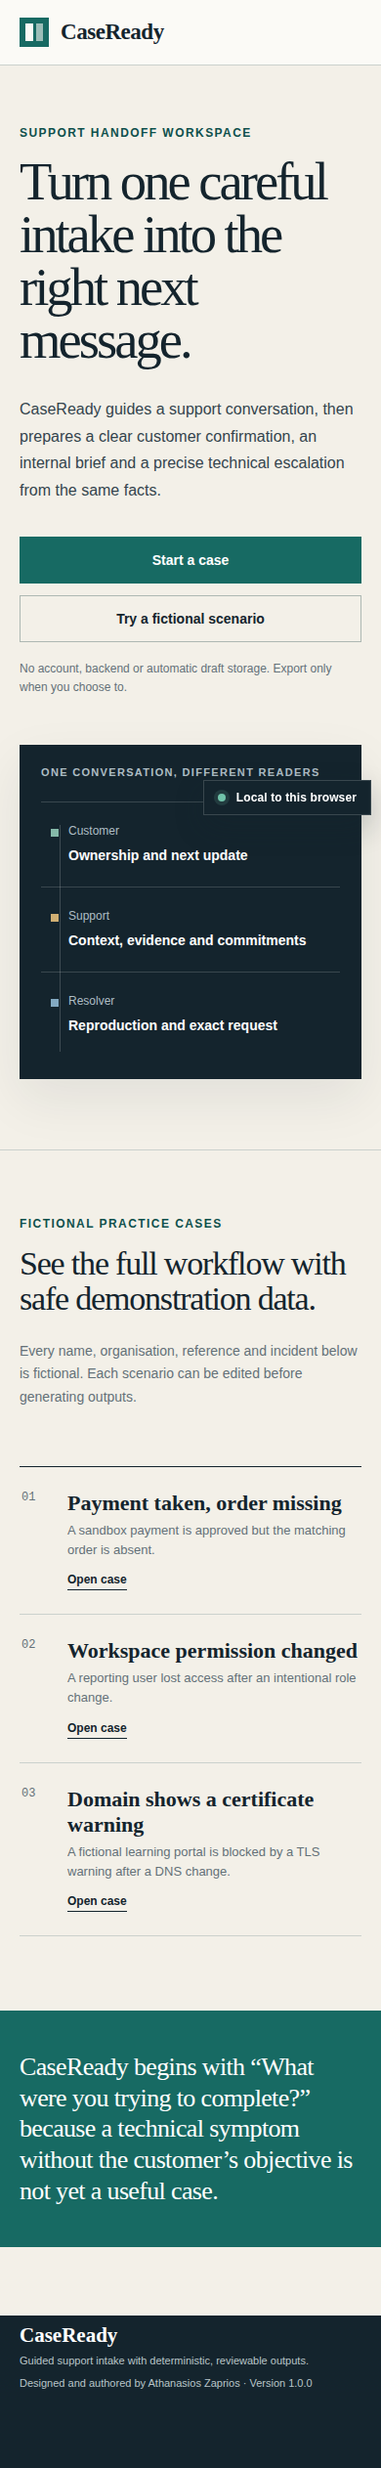
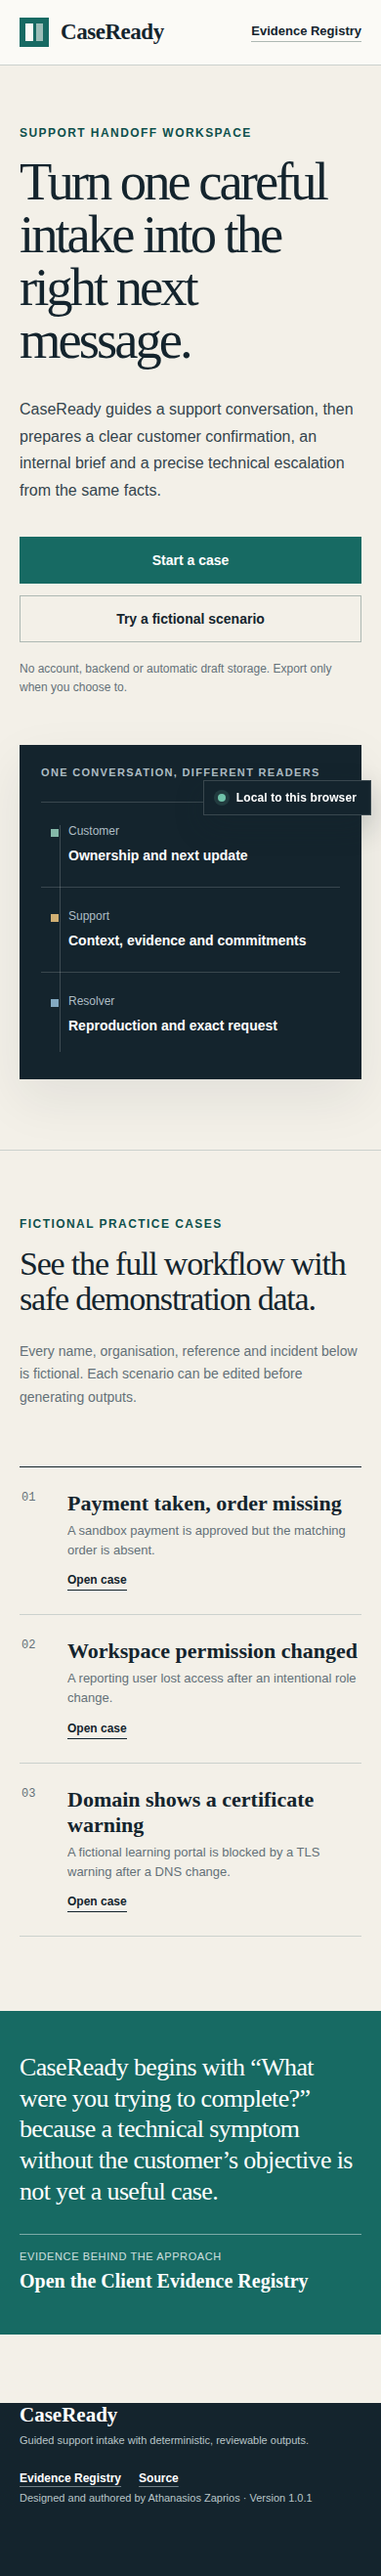
Document the verified GitHub Pages release

Changed region(s): [[0.0, 0.0, 1.0, 0.9885], [0.6462, 0.0, 0.9538, 0.0309], [0.0615, 0.6796, 0.0923, 0.7105]]

diff --git a/release-notes/v1.0.1.md b/release-notes/v1.0.1.md
@@ -1,0 +1,14 @@
+CaseReady 1.0.1 moves the public application to GitHub Pages and connects it directly with the Client Evidence Registry.
+
+## Changed
+
+- The live application now uses `https://zpthanos.github.io/CaseReady/`.
+- CaseReady links to the Client Evidence Registry from the header, product rationale and footer.
+- The repository screenshots were recaptured from the final GitHub Pages deployment.
+- The static deployment is built from the same tested source and committed as a verified Pages artifact.
+
+## Verification
+
+The deployed application was exercised through the fictional payment-and-order scenario. The live capture covered the home page, blank validation, sensitive-data warning, completed intake, customer confirmation, support brief, engineering escalation and mobile layout. It reported no browser errors and no horizontal overflow at the mobile viewport.
+
+The support workflow, deterministic output rules and privacy model are unchanged from version 1.0.0.

diff --git a/README.md b/README.md
@@ -4,6 +4,9 @@
 
 CaseReady guides a support conversation and turns the verified facts into a customer confirmation, an internal brief and a precise engineering escalation.
 
+[**Live application: zpthanos.github.io/CaseReady/**](https://zpthanos.github.io/CaseReady/)
+
+[![Live deployment](https://img.shields.io/badge/live-GitHub%20Pages-1f766e?style=flat-square)](https://zpthanos.github.io/CaseReady/)
 [![CI status](https://github.com/zpthanos/CaseReady/actions/workflows/ci.yml/badge.svg)](https://github.com/zpthanos/CaseReady/actions/workflows/ci.yml)
 [![MIT license](https://img.shields.io/github/license/zpthanos/CaseReady?style=flat-square)](./LICENSE)
 
